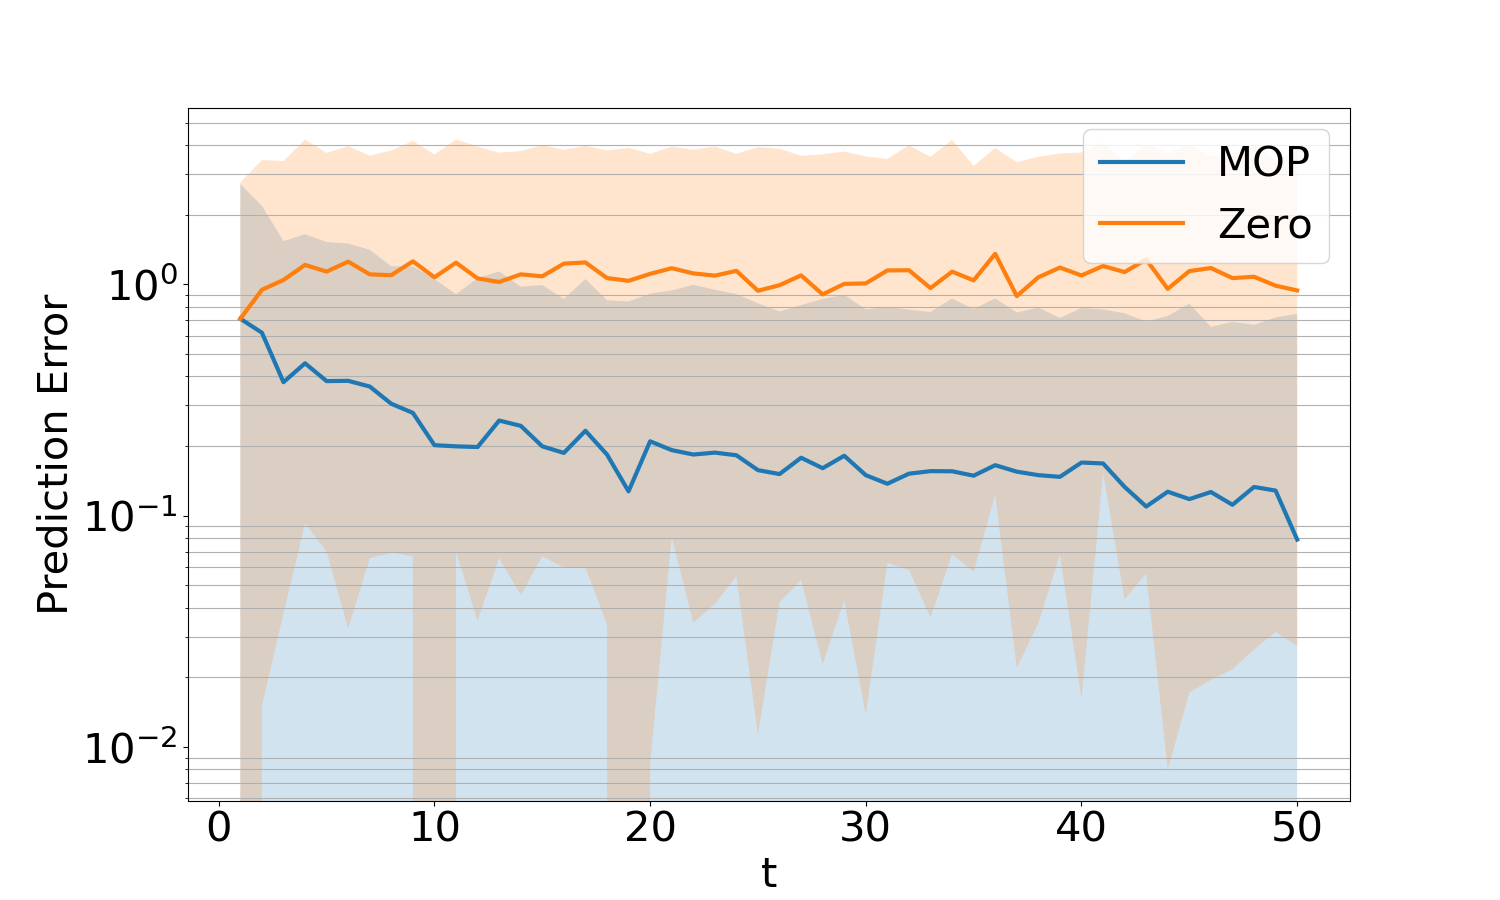
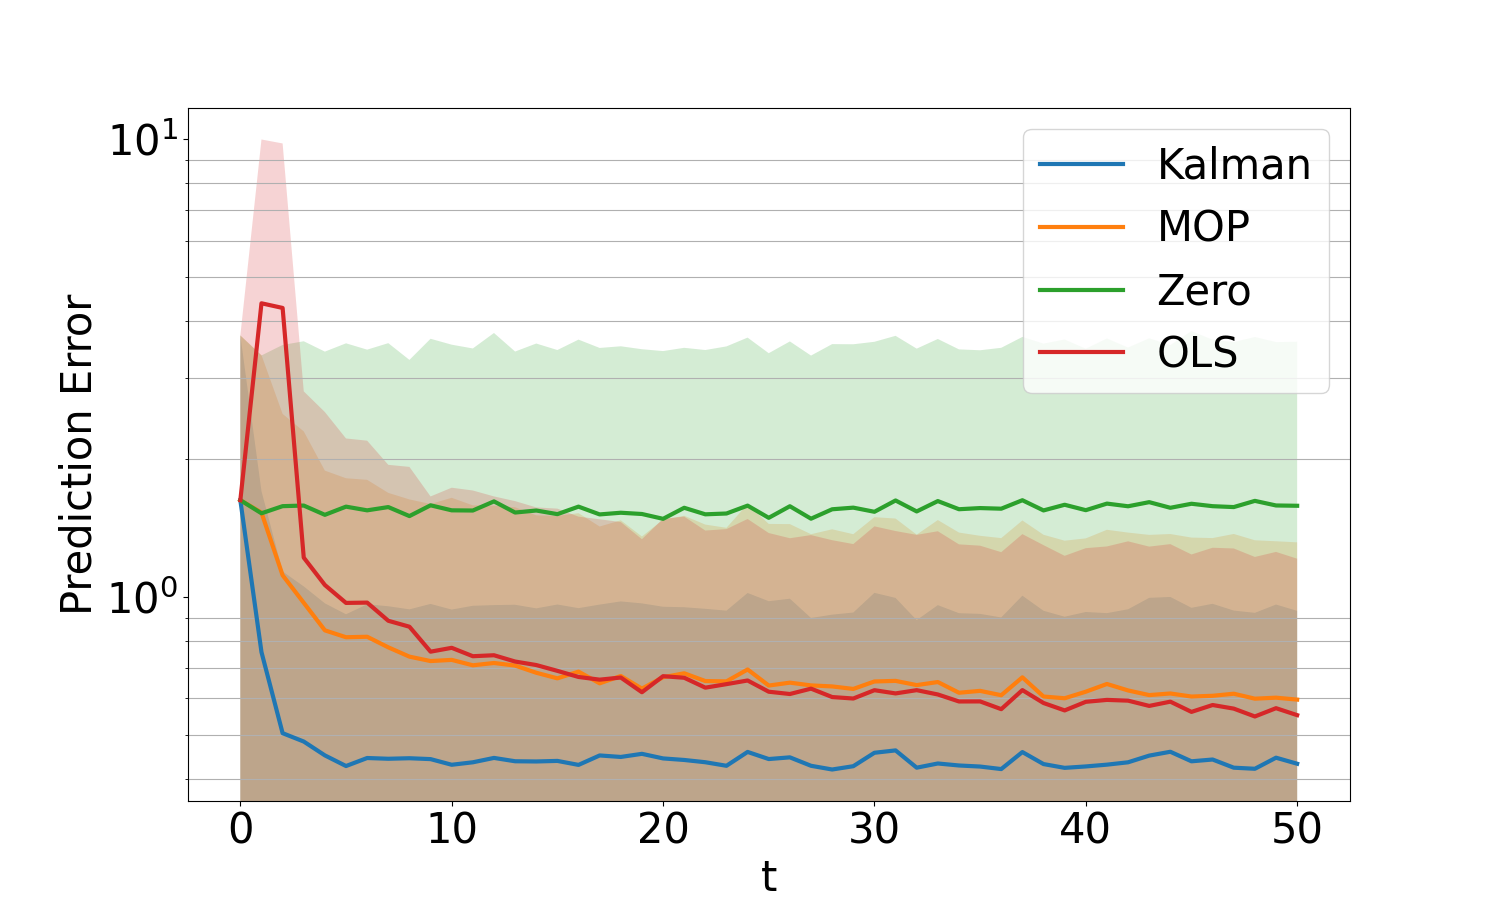
brute force for-loop for OLS multiple traces, and fixed a steady-state bug

diff --git a/umich_meta_output_predictor/src/create_plots_with_zero_pred.py b/umich_meta_output_predictor/src/create_plots_with_zero_pred.py
@@ -1,18 +1,16 @@
-import logging
-
 import collections
-import pytorch_lightning as pl
-import torch
+import logging
 import os
 
-from core import Config, training
-from models import GPT2
-from dyn_models import apply_kf, generate_lti_sample, generate_changing_lti_sample, generate_drone_sample, \
-    apply_ekf_drone
-from dyn_models.filtering_lti import solve_ricc
-from utils import RLS, plot_errs
 import matplotlib.pyplot as plt
 import numpy as np
+import torch
+
+from core import Config
+from dyn_models import apply_kf, generate_lti_sample, generate_changing_lti_sample, generate_drone_sample, \
+    apply_ekf_drone
+from models import GPT2
+from utils import RLS, plot_errs
 
 if __name__ == '__main__':
     device = "cuda" if torch.cuda.is_available() else "cpu"  # check if cuda is available
@@ -28,7 +26,7 @@ if __name__ == '__main__':
 
     ys, sim_objs, us = [], [], []  # initialize the lists
     num_systems = 1
-    num_trials = 1000
+    num_trials = 2000
     for i in range(num_systems):  # iterate over 1000 (I think this is the number of trials for the dataset)
         if config.dataset_typ == "drone":  # if the dataset type is drone
             sim_obj, entry = generate_drone_sample(config.n_positions)  # generate drone sample
@@ -84,28 +82,30 @@ if __name__ == '__main__':
         ("Zero", errs_zero)
     ])
 
-    # if config.dataset_typ != "drone":
-    #     preds_rls = []
-    #     for _ys in ys:
-    #         ls = [np.zeros(config.ny)]
-    #         rls = RLS(config.nx, config.ny)
-    #         for i in range(len(_ys) - 1):
-    #             if i < 2:
-    #                 ls.append(_ys[i])
-    #             else:
-    #                 rls.add_data(_ys[i - 2:i].flatten(), _ys[i])
-    #                 ls.append(rls.predict(_ys[i - 1:i + 1].flatten()))
-    #
-    #         preds_rls.append(ls)
-    #     preds_rls = np.array(preds_rls)
-    #     err_lss["OLS"] = np.linalg.norm(ys - preds_rls, axis=-1) ** 2
+    if config.dataset_typ != "drone":
+        preds_rls = []
+        for _ys in ys:
+            _preds_rls = []
+            for __ys in _ys:
+                ls = [np.zeros(config.ny)]
+                rls = RLS(config.nx, config.ny)
+                for i in range(_ys.shape[-2] - 1):
+                    if i < 2:
+                        ls.append(__ys[i])
+                    else:
+                        rls.add_data(__ys[i - 2:i].flatten(), __ys[i])
+                        ls.append(rls.predict(__ys[i - 1:i + 1].flatten()))
+                _preds_rls.append(ls)
+            preds_rls.append(_preds_rls)
+        preds_rls = np.array(preds_rls)
+        err_lss["OLS"] = np.linalg.norm(ys - preds_rls, axis=-1) ** 2
 
     irreducible_error = np.array([np.trace(sim_obj.S_observation_inf) for sim_obj in sim_objs])
 
     fig = plt.figure(figsize=(15, 9))
     ax = fig.add_subplot(111)
 
-    plot_errs(err_lss, irreducible_error, ax=ax, shade=True, normalized=True)
+    plot_errs(err_lss, irreducible_error, ax=ax, shade=True, normalized=False)
     # plot_errs(err_lss, irreducible_error, ax=ax, shade=config.dataset_typ != "drone", normalized=True)
 
     # plot_errs(err_lss, irreducible_error, ax=ax, shade=True, normalized=False)
@@ -113,3 +113,15 @@ if __name__ == '__main__':
 
     os.makedirs("../figures", exist_ok=True)
     fig.savefig(f"../figures/{config.dataset_typ}" + ("-changing" if config.changing else ""))
+    plt.show()
+
+    err_diff = (err_lss["OLS"] - err_lss["MOP"]).reshape(-1, config.n_positions + 1)
+    plt.hist(err_diff[:, -1], bins=100)
+    plt.show()
+
+    # bins = np.linspace(np.min(err_diff), np.max(err_diff), 101)
+    # density = np.stack([np.histogram(err_diff[:, i], bins, density=True)[0] for i in range(config.n_positions + 1)], axis=-1)
+    #
+    # im = plt.cm.get_cmap('RdPu')(density)
+    # plt.imshow(im)
+    # plt.show()

diff --git a/umich_meta_output_predictor/src/dyn_models/filtering_lti.py b/umich_meta_output_predictor/src/dyn_models/filtering_lti.py
@@ -62,8 +62,6 @@ class FilterSim:
         self.C = np.eye(nx) if nx == ny else self.construct_C(self.A, ny)
 
         self.S_state_inf = solve_ricc(self.A, np.eye(nx) * sigma_w ** 2)
-        self.sqrt_S_state_inf = np.linalg.cholesky(self.S_state_inf)
-
         S_state_inf_intermediate = sc.linalg.solve_discrete_are(self.A.T, self.C.T, np.eye(nx) * sigma_w ** 2, np.eye(ny) * sigma_v ** 2)
         self.S_observation_inf = self.C @ S_state_inf_intermediate @ self.C.T + np.eye(ny) * sigma_v ** 2
 
@@ -92,7 +90,10 @@ class FilterSim:
     def simulate_steady(self, batch_size, traj_len):  # change x0 to the steady state distribution
         ny, nx = self.C.shape
         n_noise = self.n_noise
-        x0 = np.random.randn(batch_size, nx) @ self.sqrt_S_state_inf.T
+        x0 = np.stack([
+            np.random.multivariate_normal(np.zeros(nx), self.S_state_inf)
+            for _ in range(batch_size)
+        ])
 
         ws = np.random.randn(batch_size, n_noise + traj_len, nx) * self.sigma_w    # state noise of dimension nx
         vs = np.random.randn(batch_size, n_noise + traj_len, ny) * self.sigma_v    # output noise of dimension ny

diff --git a/umich_meta_output_predictor/src/utils/misc.py b/umich_meta_output_predictor/src/utils/misc.py
@@ -48,8 +48,8 @@ def plot_errs(err_lss, err_irreducible, legend_loc="upper right", ax=None, shade
         traj_errs = err_ls.sum(axis=-1)
         print(name, "{:.2f}".format(traj_errs.mean(axis=(0, 1))))
 
-        t = np.arange(1, err_ls.shape[-1])
         if normalized:
+            t = np.arange(1, err_ls.shape[-1])
             if name != "Kalman":
                 normalized_err = (err_ls - err_lss["Kalman"]) / np.expand_dims(err_irreducible, axis=tuple(range(1, err_ls.ndim)))
 
@@ -61,7 +61,7 @@ def plot_errs(err_lss, err_irreducible, legend_loc="upper right", ax=None, shade
             avg, std = err_ls.mean(axis=(0, 1)), err_ls.std(axis=(0, 1))
             handles.extend(ax.plot(avg, label=name, linewidth=3))
             if shade:
-                ax.fill_between(t, (avg - std)[1:], (avg + std)[1:], facecolor=handles[-1].get_color(), alpha=0.2)
+                ax.fill_between(np.arange(err_ls.shape[-1]), avg - std, avg + std, facecolor=handles[-1].get_color(), alpha=0.2)
 
     ax.legend(fontsize=30, loc=legend_loc)
     ax.set_xlabel("t", fontsize=30)
